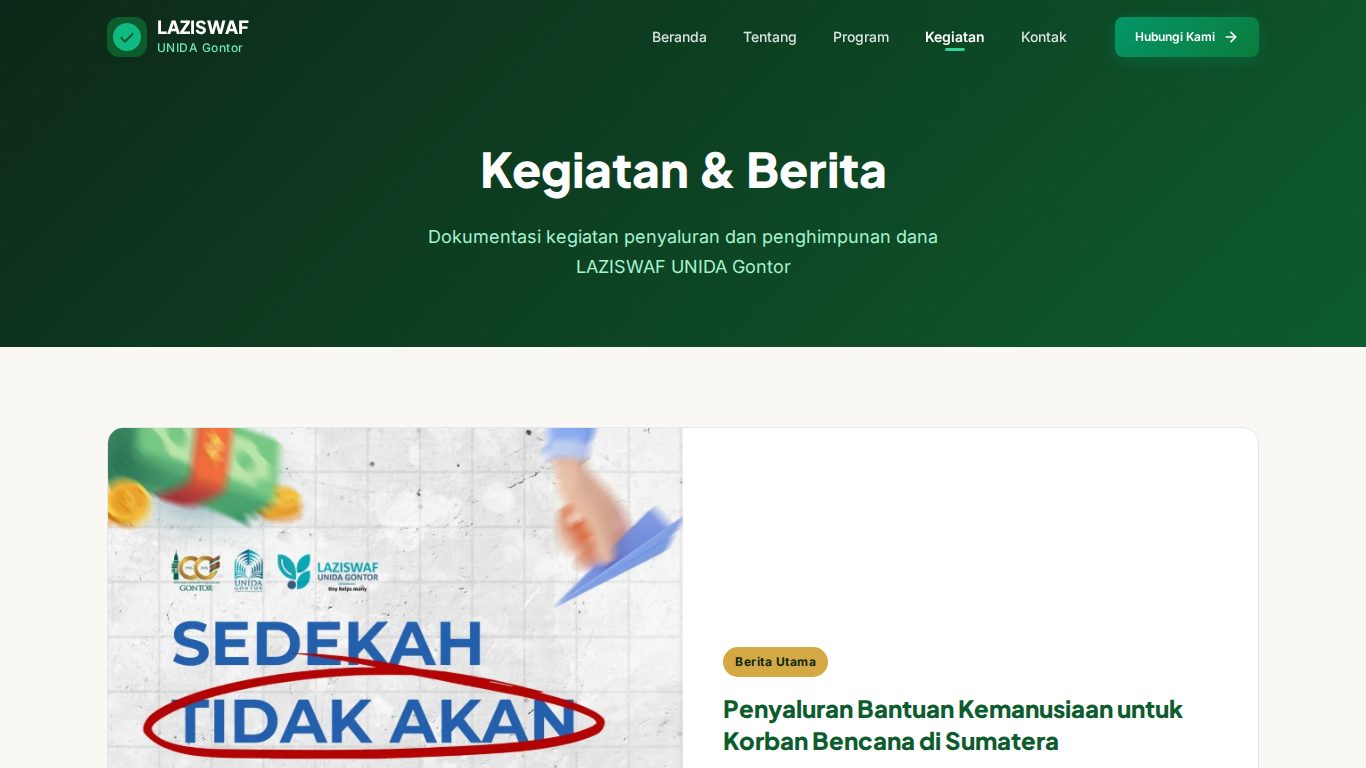
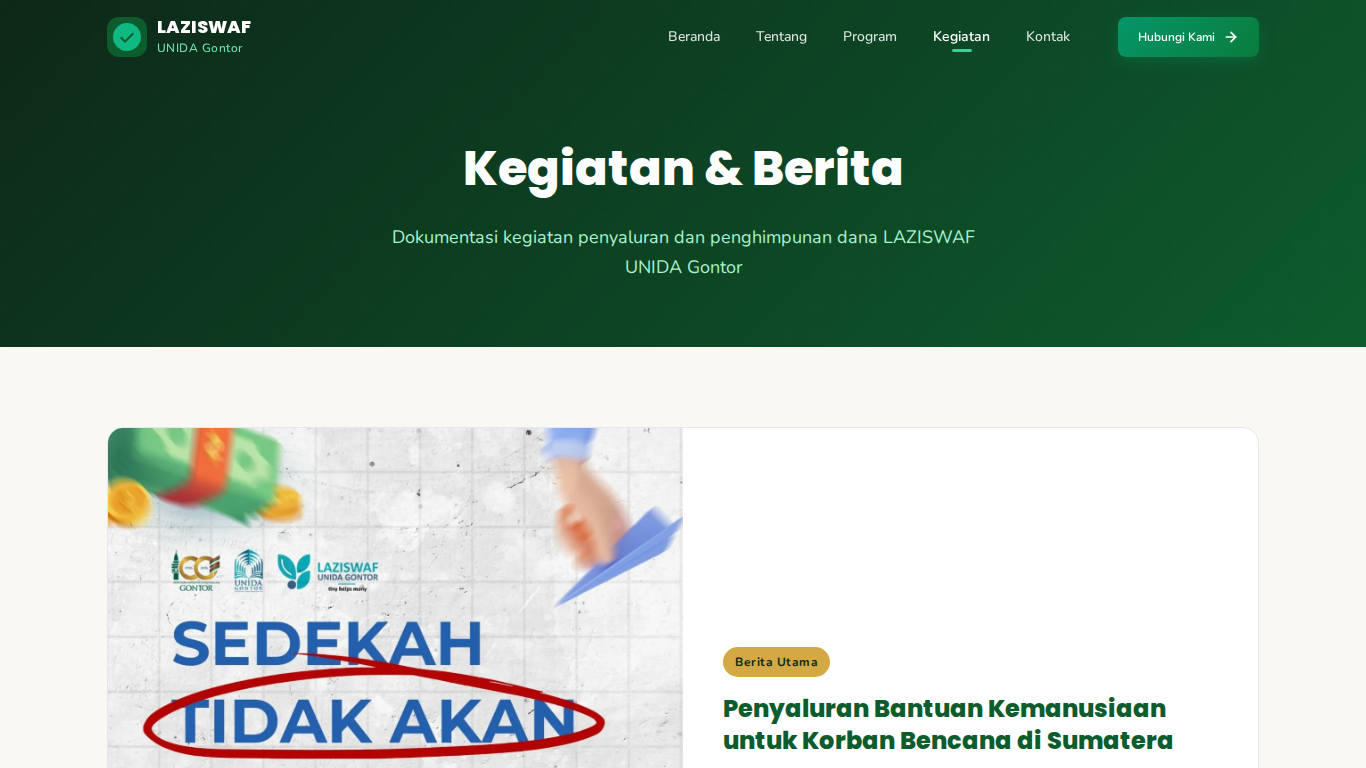
style: ganti heading font ke Sora (lebih hangat)

diff --git a/src/styles/global.css b/src/styles/global.css
@@ -1,7 +1,7 @@
 /* ===== LAZISWAF UNIDA Gontor — Global Styles ===== */
 /* Theme: Islamic Emerald — profesional, hangat, terpercaya */
 
-@import url('https://fonts.googleapis.com/css2?family=Nunito:wght@300;400;500;600;700;800&family=Poppins:wght@400;500;600;700;800&display=swap');
+@import url('https://fonts.googleapis.com/css2?family=Nunito:wght@300;400;500;600;700;800&family=Sora:wght@400;500;600;700;800&display=swap');
 
 :root {
   /* === Brand Colors === */
@@ -46,7 +46,7 @@
   --shadow-glow: 0 0 20px rgba(5, 150, 105, 0.15);
 
   /* === Typography === */
-  --font-display: 'Poppins', system-ui, -apple-system, sans-serif;
+  --font-display: 'Sora', system-ui, -apple-system, sans-serif;
   --font-body: 'Nunito', system-ui, -apple-system, sans-serif;
   --font-arabic: 'Amiri', 'Traditional Arabic', serif;
 